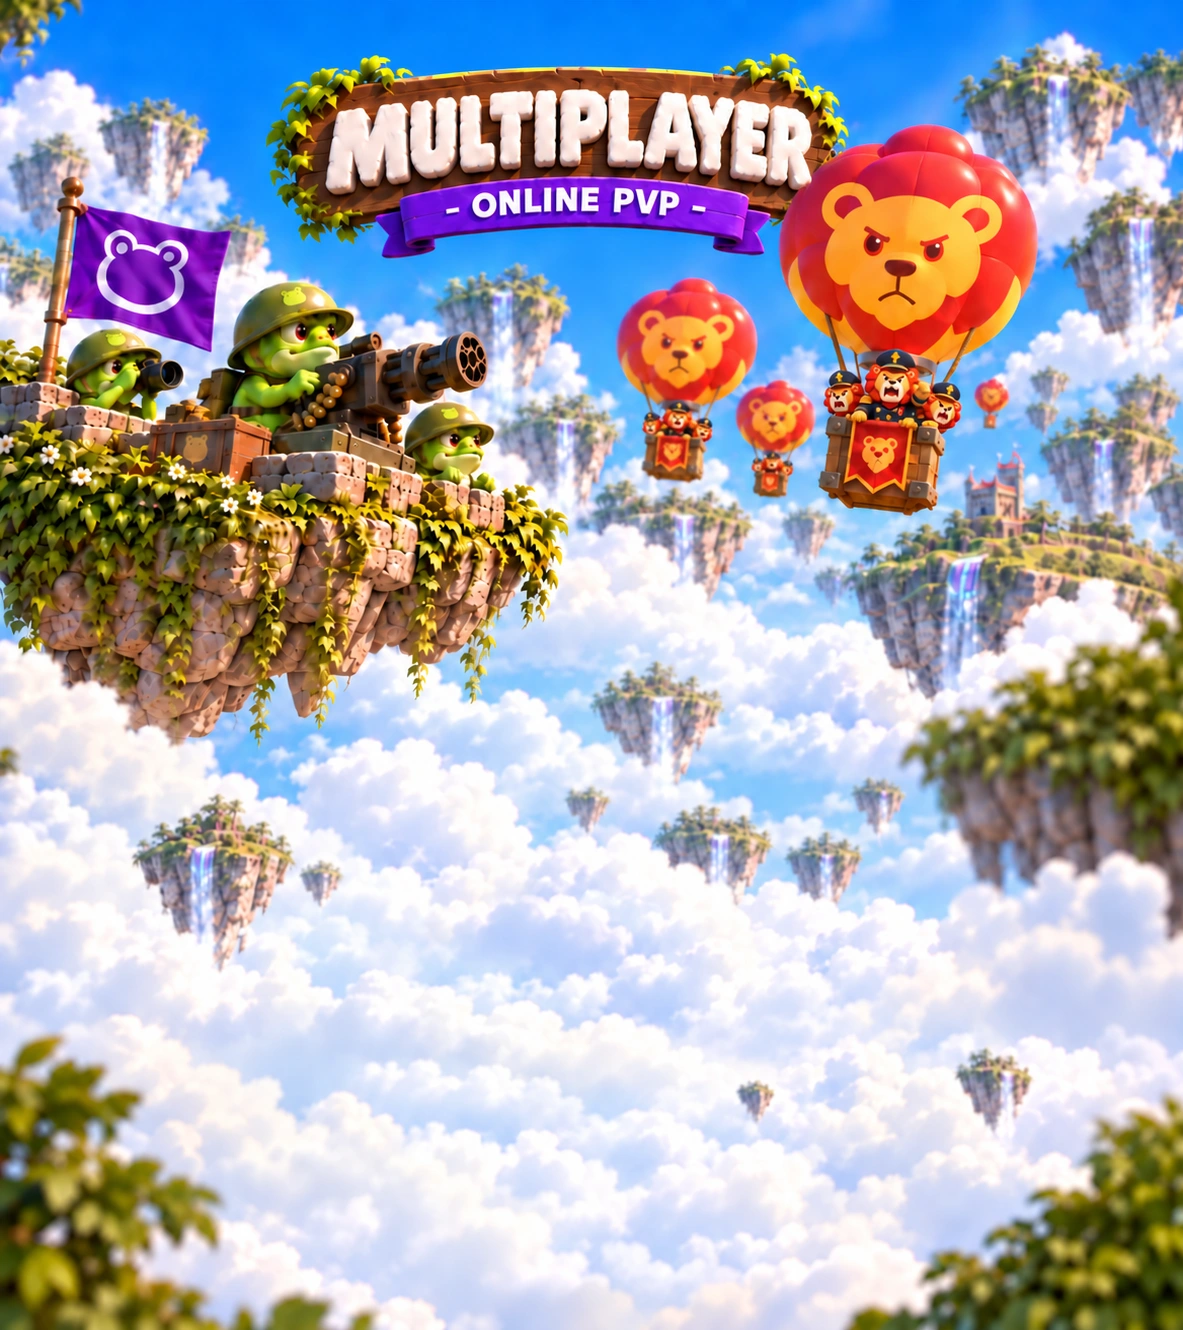
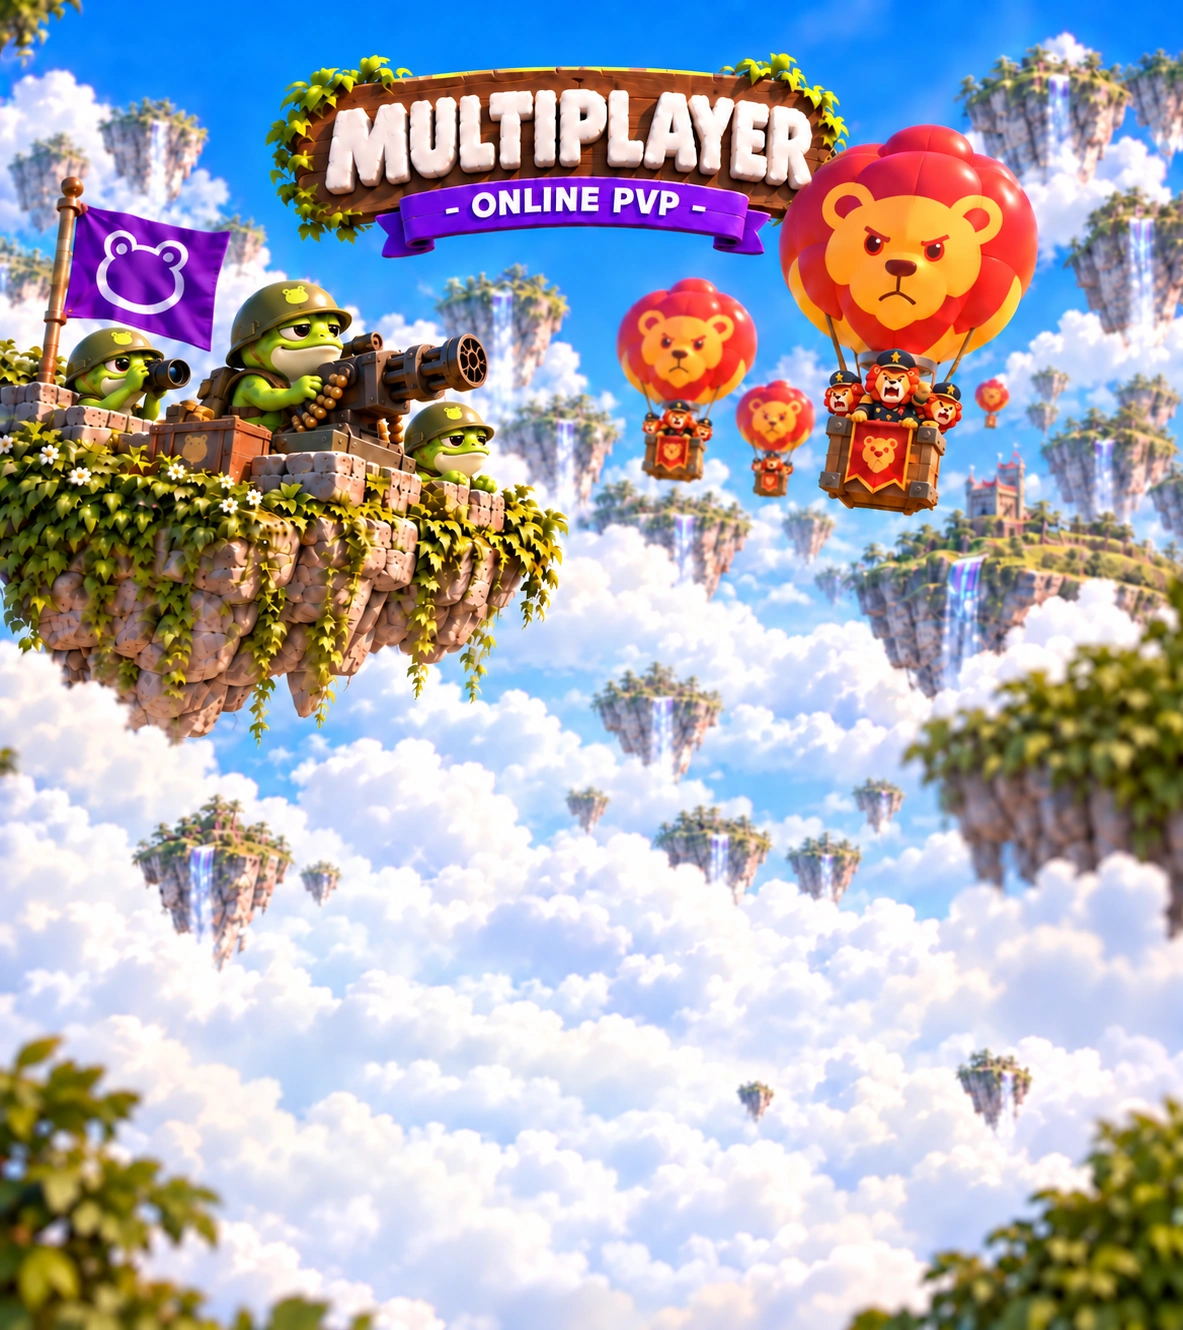
better multiplayer

diff --git a/public/images/multiplayer/README.md b/public/images/multiplayer/README.md
@@ -1,5 +1,9 @@
 # Multiplayer background
 
+## Frog reference refresh
+
+The three foreground frogs in `sky-scene-lion-crew.webp` were updated with built-in imagegen using `base frog.png` and `better frogs.webp` as appearance references. The edit adds broad cream jaws, half-lidded eyes, glossy lime skin and sharper character detail while retaining the scene composition, equipment, lion crews and title. The generated image is encoded as WebP at quality 95. The full edit prompt is saved in `frog-refresh-prompt.txt`.
+
 ## Current lion crew and centerpiece revision
 
 `sky-scene-lion-crew.webp` is the current page artwork. Built-in imagegen replaced the basket crews using `balloon dread.png` as the character reference, then recreated and integrated the mockup's wooden MULTIPLAYER / ONLINE PVP centerpiece. The heading has an accessible HTML equivalent; its visible lettering is now rendered artwork as requested. The original background remains available as `sky-scene.webp`.
